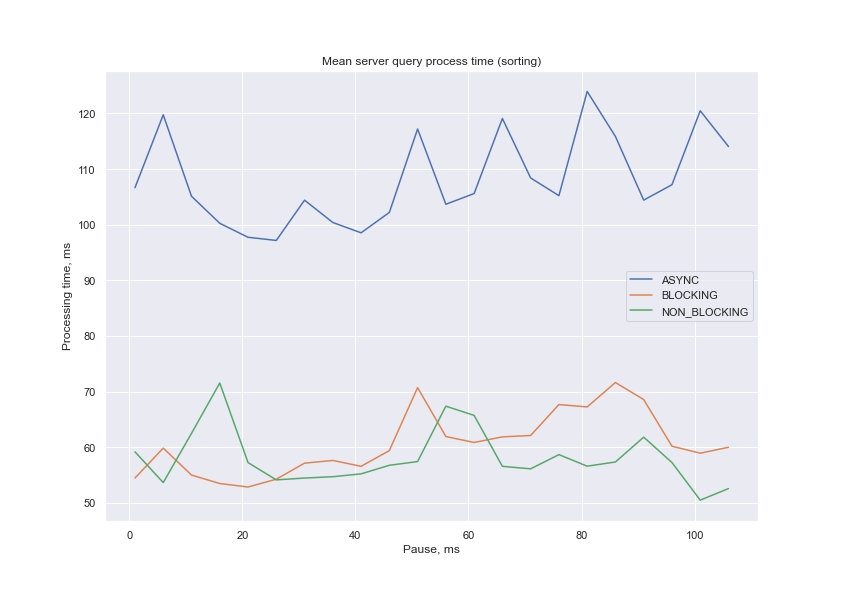
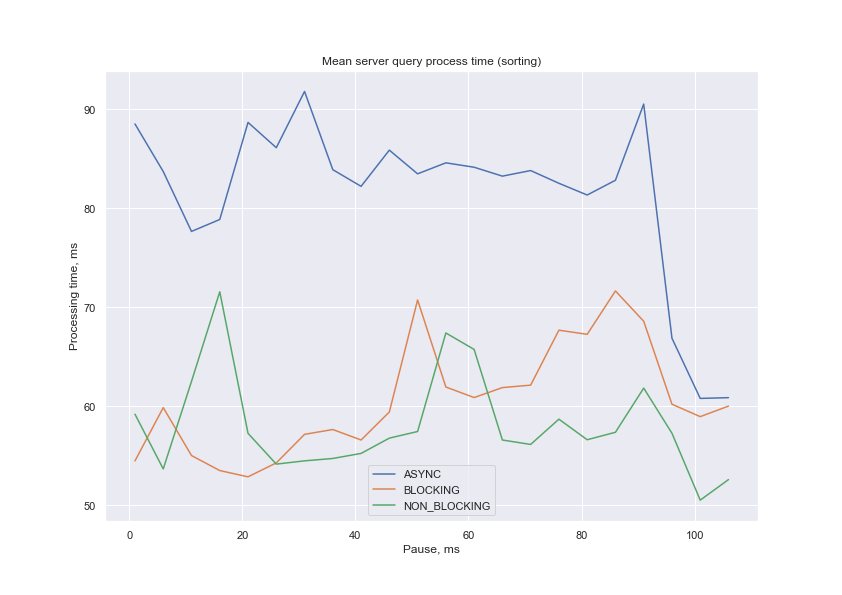
Change asynchronous server

diff --git a/src/ru/hse/servers/architectures/AsynchronousServer.java b/src/ru/hse/servers/architectures/AsynchronousServer.java
@@ -16,6 +16,7 @@ import java.util.ArrayDeque;
 import java.util.ArrayList;
 import java.util.List;
 import java.util.Queue;
+import java.util.concurrent.ConcurrentLinkedQueue;
 import java.util.concurrent.CountDownLatch;
 import java.util.concurrent.ExecutionException;
 import java.util.concurrent.Future;
@@ -74,6 +75,8 @@ public class AsynchronousServer extends AbstractServer {
     }
 
     private static class ClientHandler {
+        public Queue<ByteBuffer> bufferQueue = new ConcurrentLinkedQueue<>();
+        public volatile boolean isWriting = false;
         private int messageLen;
         private int numberOfTasks;
         private int tasksCompleted;
@@ -139,6 +142,7 @@ public class AsynchronousServer extends AbstractServer {
             writeBuffer.putInt(response.length);
             writeBuffer.put(response);
             writeBuffer.flip();
+            bufferQueue.offer(writeBuffer);
         }
 
         public void resetRead() {
@@ -147,7 +151,6 @@ public class AsynchronousServer extends AbstractServer {
         }
 
         public void resetWrite() {
-            result = null;
             tasksCompleted++;
             if (tasksCompleted == numberOfTasks) {
                 try {
@@ -194,15 +197,16 @@ public class AsynchronousServer extends AbstractServer {
                     }
                     attachment.makeWriteBuffer();
                     attachment.resetRead();
-                    if (attachment.channel.isOpen()) {
-                        attachment.channel.write(attachment.writeBuffer, attachment, new WriteHandler());
+                    if (attachment.channel.isOpen() && !attachment.isWriting) {
+                        attachment.isWriting = true;
+                        attachment.channel.write(attachment.bufferQueue.peek(), attachment, new WriteHandler());
                     }
                 } catch (InvalidProtocolBufferException | InterruptedException | ExecutionException e) {
                     throw new RuntimeException(e);
                 }
             }
-            else if (attachment.channel.isOpen()) {
-                attachment.channel.read(attachment.readBuffer, attachment, this);
+            if (attachment.channel.isOpen()) {
+            attachment.channel.read(attachment.readBuffer, attachment, this);
             }
         }
 
@@ -214,15 +218,21 @@ public class AsynchronousServer extends AbstractServer {
     private class WriteHandler implements CompletionHandler<Integer, ClientHandler> {
         @Override
         public void completed(Integer result, ClientHandler attachment) {
-            if (attachment.writeBuffer.hasRemaining()) {
+            if (attachment.bufferQueue.peek().hasRemaining()) {
                 if (attachment.channel.isOpen()) {
-                    attachment.channel.write(attachment.writeBuffer, attachment, this);
+                    attachment.channel.write(attachment.bufferQueue.peek(), attachment, this);
                 }
             }
             else if (attachment.channel.isOpen()) {
                 attachment.resetWrite();
+                attachment.bufferQueue.poll();
                 if (attachment.channel.isOpen()) {
-                    attachment.channel.read(attachment.readBuffer, attachment, new ReadHandler());
+                    if (attachment.bufferQueue.size() == 0) {
+                        attachment.isWriting = false;
+                    }
+                    else {
+                        attachment.channel.write(attachment.bufferQueue.peek(), attachment, this);
+                    }
                 }
             }
         }

diff --git a/src/ru/hse/servers/ServerTesting.java b/src/ru/hse/servers/ServerTesting.java
@@ -230,7 +230,7 @@ public class ServerTesting implements Runnable {
     public void run() {
         config = collectConfig();
         //config = new TestConfig(3000, 10, 50, 30, 1, 106, 5,
-          //      TestConfig.ArchitectureType.ASYNC, TestConfig.VaryingParameter.PAUSE);
+                //TestConfig.ArchitectureType.ASYNC, TestConfig.VaryingParameter.PAUSE);
         config.initStepping();
         ExecutorService serverThread = Executors.newSingleThreadExecutor();
         do {

diff --git a/output/README.md b/output/README.md
@@ -1,8 +1,8 @@
 # Tests setups
 | Files                                                                                   | Measure side | Array length | Number of clients | Pause between queries, ms | Number of queries |
 |-----------------------------------------------------------------------------------------|--------------|--------------|-------------------|---------------------------|-------------------|
-| CLIENT_ASYNC_LENGTH.csv, CLIENT_BLOCKING_LENGTH.csv, CLIENT_NON_BLOCKING_LENGTH.csv  | Client       | 500-7000, step 500        | 10      | 50                        | 30                |
-| SERVER_ASYNC_LENGTH.csv, SERVER_BLOCKING_LENGTH.csv, SERVER_NON_BLOCKING_LENGTH.csv  | Server       | 500-7000, step 500        | 10      | 50                        | 30                |
+| CLIENT_ASYNC_LENGTH.csv, CLIENT_BLOCKING_LENGTH.csv, CLIENT_NON_BLOCKING_LENGTH.csv  | Client       | 1000-7000, step 500        | 10      | 50                        | 30                |
+| SERVER_ASYNC_LENGTH.csv, SERVER_BLOCKING_LENGTH.csv, SERVER_NON_BLOCKING_LENGTH.csv  | Server       | 1000-7000, step 500        | 10      | 50                        | 30                |
 | CLIENT_ASYNC_CLIENTS.csv, CLIENT_BLOCKING_CLIENTS.csv, CLIENT_NON_BLOCKING_CLIENTS.csv  | Client       | 3000         | 1-101, step 10      | 50                        | 30                |
 | SERVER_ASYNC_CLIENTS.csv, SERVER_BLOCKING_CLIENTS.csv, SERVER_NON_BLOCKING_CLIENTS.csv  | Server       | 3000         | 1-101, step 10     | 50                        | 30                |
 | CLIENT_ASYNC_PAUSE.csv, CLIENT_BLOCKING_PAUSE.csv, CLIENT_NON_BLOCKING_PAUSE.csv  | Client       | 3000        | 10      | 1-106, step 5                        | 30                |
